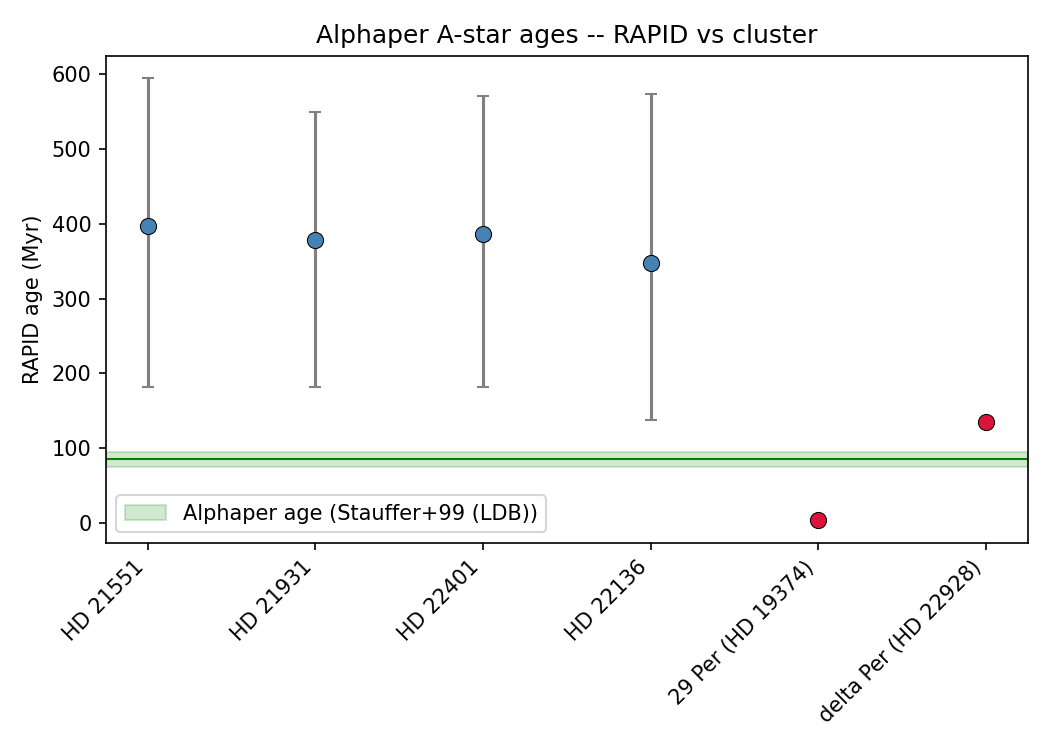
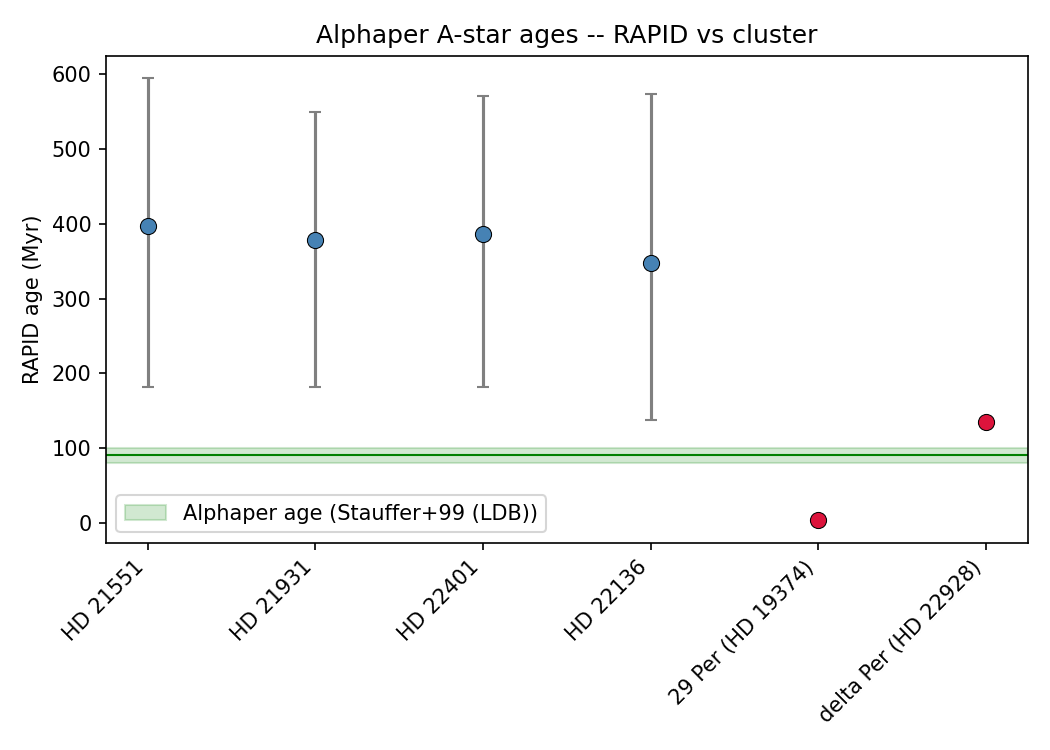
Tighten validation notes and alpha Per age

Changed region(s): [[0.0914, 0.5827, 0.9752, 0.644]]

diff --git a/scripts/05_validation_summary.py b/scripts/05_validation_summary.py
@@ -1,5 +1,5 @@
 """
-Two-cluster validation summary: RAPID inferred age vs known cluster age.
+Three-cluster validation summary: RAPID inferred age vs known cluster age.
 Run from repo root:  python scripts\05_validation_summary.py
 """
 import numpy as np, pandas as pd
@@ -15,7 +15,7 @@ CLUSTERS = {
                      jitter_halfwidth=35.0),
     "hyades":   dict(age=625.0, age_err=50.0, label="Hyades",
                      jitter_halfwidth=55.0),
-    "alphaper": dict(age= 85.0, age_err=10.0, label="alpha Per",
+    "alphaper": dict(age= 90.0, age_err=10.0, label="alpha Per",
                      jitter_halfwidth=22.0),
 }
 

diff --git a/scripts/03_cluster_validation.py b/scripts/03_cluster_validation.py
@@ -12,7 +12,7 @@ CLUSTERS = {
                      ref="Stauffer+98 (LDB)"),
     "hyades":   dict(age=625.0, age_err=50.0, csv="hyades_seed.csv",
                      ref="Perryman+98"),
-    "alphaper": dict(age= 85.0, age_err=10.0, csv="alphaper_seed.csv",
+    "alphaper": dict(age= 90.0, age_err=10.0, csv="alphaper_seed.csv",
                      ref="Stauffer+99 (LDB)"),
 }
 

diff --git a/notes/phase2_cluster_validation.md b/notes/phase2_cluster_validation.md
@@ -22,7 +22,8 @@ prediction on a real cluster, while also quantifying that RAPID is not
 yet a reliable age estimator for individual young (~100 Myr) A stars.
 
 ## Caveats / sample weaknesses
-- Sample size of 4 clean A stars is too small for a publication-grade
+- Sample size is small (two clean A-dwarfs plus two edge/comparison
+  cases), so this is a diagnostic validation, not yet a publication-grade
   calibration. Need to expand.
 - Luminosities for cluster A-stars were drawn from a mix of older
   sources (Stauffer+98, TIC v8.2) and should be re-derived uniformly
@@ -43,15 +44,28 @@ yet a reliable age estimator for individual young (~100 Myr) A stars.
 - HD 28910 (A4V, 1.70 M_sun): age 225 (-152, +228) Myr, ~400 Myr too young
 - theta^2 Tau (near MS turnoff): 563 (-46, +57) Myr, matches truth
 
-### Combined with Pleiades
-Across both clusters, the clean A-dwarfs collapse toward a ~250-300 Myr
-value regardless of true age:
+## Phase 2 Step 3: Alpha Per
+
+### Headline finding
+- Four clean A-dwarfs in alpha Per (adopting 90 +/- 10 Myr from the
+  Stauffer+99 LDB age) return RAPID-style median ages of 348, 379, 386,
+  and 397 Myr.
+- This independently repeats the young-cluster old-bias seen in the
+  Pleiades, with a larger offset because alpha Per is younger.
+
+### Combined three-cluster picture
+Across all three clusters, the clean A-dwarfs collapse toward a
+~250-400 Myr value regardless of true age:
+- Alpha Per A-dwarfs (truth ~90 Myr): inferred ~350-400 Myr
 - Pleiades A-dwarfs (truth 125 Myr): inferred ~300 Myr (+175 Myr bias)
 - Hyades A-dwarfs   (truth 625 Myr): inferred ~280 Myr (-345 Myr bias)
 The bias flips sign because the inference is collapsing toward the
 prior-weighted mean A-star MS age, not respecting the true age.
 
-The only two stars that recover the cluster age are:
+Numerically, the eight clean A-dwarfs span 225-397 Myr in inferred age
+(a factor of 1.8), with seven of eight lying in the 250-400 Myr band.
+
+The two cases that recover the cluster age within uncertainties are:
 - HD 23642 (Pleiades EB, binary-corrected input): tight grid of bin_*
   models maps Teff/L to the right age
 - theta^2 Tau (Hyades near-turnoff): rapid evolution makes HR-diagram

diff --git a/notes/applet_audit.md b/notes/applet_audit.md
@@ -39,7 +39,8 @@ that class.
      Naming bug, math correct.
    - Inverse-square: W = 0.25/d^2 for d > 0.5, capped at W = 1.0 for
      d <= 0.5. Paper footnote 9 says cap at d=0.5 giving W=4 with norm
-     1/4. Code's cap is 1.0, not 4. Discrepancy worth flagging.
+     1/4. The code appears to implement the normalised form directly, so
+     this is a documentation/notation point rather than a science bug.
 
 3. **Truncation**:
    - KDE for mass and age uses all samples with d <= 10 (comment line
@@ -101,8 +102,8 @@ From no_binaries.feather:
 
 ## Open questions for Simon
 
-- Is inverse-square 0.25/d^2 capped at W=1.0 intended, or was it meant
-  to be 1/d^2 capped at W=4 per paper footnote 9?
+- Can the inverse-square footnote explicitly state that the code uses the
+  normalised 0.25/d^2 form capped at W=1.0?
 - Was the d <= 10 window for mass/age KDEs deliberate, or is the
   paper's d <= 3 the intended cut?
 - Why does update_mahalanobis_fill paint with exp(-d^4/2) while the

diff --git a/notes/phase1_results.md b/notes/phase1_results.md
@@ -16,8 +16,10 @@
 
 ## What the reweighting recovers
 
-- [Fe/H] histogram peak: implemented ~10, reweighted ~6.6,
-  intended Gaussian ~2.66.
+- [Fe/H] histogram peak in the 80-bin diagnostic plot: implemented ~10,
+  reweighted ~6.6, intended Gaussian ~2.66. The exact peak density is
+  binning-dependent because the original Z grid is discrete, but the
+  depressed-tail conclusion is not.
 - Reweighting closes about half the gap. The rest is unrecoverable because
   the population contains essentially zero surviving samples at
   |[Fe/H]| > 0.3. A full fix requires regenerating with proper Gaussian
